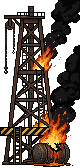
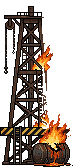
Smoke plumes: a layer drawn in code, replacing the derrick's cut-off smoke
The burning derrick's generated smoke ran off its sprite (a hard edge on the
right and top) and never moved, since only the flames in a set piece
animate. It's cut out of the frames, and a new `smoke` layer rises behind
the derrick instead: puffs born at random moments, each with its own size
and drift, lit from above and by the fire below, breaking up as they rise.
It's placed like a sprite (box, x, y, pinned, size) and can be added,
moved and resized in the scene editor.

The derrick sprite lost 6 px of smoke at its top, so its layer moves down
6 px to stay where it was.

Claude-Session: https://claude.ai/code/session_01TU95K1hi6BMFRUL7GHrbSG

diff --git a/src/render/scenes/smoke.ts b/src/render/scenes/smoke.ts
@@ -1,0 +1,73 @@
+/**
+ * A smoke plume: dark puffs rising from a fire, growing, drifting with the
+ * wind and thinning out as they go, drawn fresh every frame (so it moves, and
+ * there's no sprite edge to cut it off). A `smoke` layer is placed like a
+ * sprite: its box is SMOKE_W × SMOKE_H times its `size`, and the fire it rises
+ * from is near the bottom left of the box (the wind blows it to the right).
+ */
+import { makeCanvas } from '../pixel/painter';
+import { bayer, hash } from '../pixel/noise';
+import { mix } from '../pixel/palette';
+import type { RGB } from '../pixel/palette';
+
+export const SMOKE_W = 48;
+export const SMOKE_H = 110;
+
+/** Puffs in the air at once, and how long one takes to rise the whole way (seconds). */
+const PUFFS = 22;
+const RISE = 7;
+/** Smoke colours: the dark body of a puff, its top lit by the sky, its outline, and the underside lit by the fire. */
+const SOOT: RGB = [26, 21, 22];
+const LIT: RGB = [64, 54, 52];
+const EDGE: RGB = [12, 9, 10];
+const FIRELIT: RGB = [110, 52, 26];
+
+const canvases = new Map<string, { can: HTMLCanvasElement; data: ImageData }>();
+
+/** The plume in a box w × h at time t; it fades toward the haze colour as it rises. */
+export function paintSmoke(w: number, h: number, t: number, haze: RGB): HTMLCanvasElement {
+  const key = `${w}x${h}`;
+  let c = canvases.get(key);
+  if (!c) {
+    c = { can: makeCanvas(w, h), data: new ImageData(w, h) };
+    canvases.set(key, c);
+  }
+  const { data } = c;
+  data.data.fill(0);
+  const scale = h / SMOKE_H;
+  const sx = w * 0.3, sy = h - 4 * scale;
+  // Oldest (highest) puffs first, so the younger ones below are drawn over them.
+  // Each puff is born at a slightly random moment and has its own size and sideways drift (new every time it's reborn).
+  const puffs = Array.from({ length: PUFFS }, (_, k) => {
+    const age = t / RISE + (k + hash(k, 7) * 0.8) / PUFFS, n = Math.floor(age);
+    return { k: k * 31 + n, u: age - n };
+  }).sort((p, q) => q.u - p.u);
+  for (const { k, u } of puffs) {
+    const size = 0.7 + hash(k, 1) * 0.6, side = (hash(k, 2) - 0.5) * 2;
+    // Rises, leans with the wind (faster up high), and wanders to its own side.
+    const px = sx + u * u * 0.55 * w + side * (2 + u * 9) * scale;
+    const py = sy - u * (h - 14 * scale) * (0.92 + hash(k, 3) * 0.16);
+    const r = (4 + u * 10) * size * scale;
+    // Whole puffs low down; up high they break up (dithered) and fade toward the haze.
+    const density = Math.min(1, (1 - u) * 2.5);
+    const tint = (c: RGB) => mix(c, haze, u * 0.25);
+    const x0 = Math.max(0, Math.floor(px - r - 1)), x1 = Math.min(w - 1, Math.ceil(px + r + 1));
+    const y0 = Math.max(0, Math.floor(py - r - 1)), y1 = Math.min(h - 1, Math.ceil(py + r + 1));
+    for (let y = y0; y <= y1; y++) {
+      for (let x = x0; x <= x1; x++) {
+        const dx = (x - px) / r, dy = (y - py) / (r * 0.85), d = Math.hypot(dx, dy);
+        if (d > 1.08) continue;
+        if (density < 1 && density * (1.4 - d) < bayer(x, y)) continue;
+        // Lit from above left, an outline at the rim, warm underneath while near the fire.
+        const top = -(dx * 0.45 + dy * 0.9);
+        let col = d > 0.92 && dy < 0.2 ? EDGE : top > 0.45 ? LIT : SOOT;
+        if (dy > 0.4 && u < 0.35) col = mix(col, FIRELIT, (0.35 - u) * 2.2);
+        const c2 = tint(col);
+        const o = (y * w + x) * 4;
+        data.data[o] = c2[0]; data.data[o + 1] = c2[1]; data.data[o + 2] = c2[2]; data.data[o + 3] = 255;
+      }
+    }
+  }
+  c.can.getContext('2d')!.putImageData(data, 0, 0);
+  return c.can;
+}

diff --git a/src/editor/model.ts b/src/editor/model.ts
@@ -3,6 +3,7 @@
  * the size check for generated sprites, and undo history. No DOM here.
  */
 import { layerBox, spotSize } from '../render/scenes/backdrop';
+import { SMOKE_H, SMOKE_W } from '../render/scenes/smoke';
 import type { Location, SceneLayer } from '../render/scenes/locations';
 import { FEET, MIN_W, PLANES, shiftX, sizeFit } from '../render/scenes/scale';
 import type { Plane } from '../render/scenes/scale';
@@ -22,6 +23,7 @@ function hits(loc: Location, l: SceneLayer, W: number, x: number, y: number): bo
   if (!b || x < b.x || y < b.y || x >= b.x + b.w || y >= b.y + b.h) return false;
   if (l.part === 'body') return Math.hypot(x - b.x - b.w / 2, y - b.y - b.h / 2) <= b.w / 2;
   if (l.part === 'prop') return x >= b.x + 6 && x < b.x + b.w - 6 && y >= b.y + 6;
+  if (l.part === 'smoke') return true;
   if (l.part !== 'sprite') return false;
   const f = framesOf(l.sheet)?.[0];
   if (!f) return true;
@@ -49,8 +51,9 @@ export function moveTo(loc: Location, l: SceneLayer, W: number, x: number, y: nu
   l.y = Math.round(y);
 }
 
-/** Sprites and props are set pieces: they can be added, duplicated and deleted (the rest belongs to the location's look). */
-export const isPiece = (l: SceneLayer | undefined): l is Extract<SceneLayer, { part: 'sprite' | 'prop' }> => l?.part === 'sprite' || l?.part === 'prop';
+/** Sprites, props and smoke are set pieces: they can be added, duplicated and deleted (the rest belongs to the location's look). */
+export const isPiece = (l: SceneLayer | undefined): l is Extract<SceneLayer, { part: 'sprite' | 'prop' | 'smoke' }> =>
+  l?.part === 'sprite' || l?.part === 'prop' || l?.part === 'smoke';
 
 /** Swaps layer i with its neighbour toward the front (1) or the back (-1); returns its new index. */
 export function reorder(layers: SceneLayer[], i: number, dir: 1 | -1): number {
@@ -65,6 +68,9 @@ export function newSprite(sheet: SheetId): SceneLayer {
   const { w, h } = SHEETS[sheet];
   return { part: 'sprite', sheet, x: Math.round(MIN_W / 2 - w / 2), y: FEET - h };
 }
+
+/** A new smoke plume, in the middle of the scene, rising from the fighters' line. */
+export const newSmoke = (): SceneLayer => ({ part: 'smoke', x: Math.round(MIN_W / 2 - SMOKE_W / 2), y: FEET - SMOKE_H });
 
 /** How a sprite's size compares with what its label (metres, plane) asks for; null if it has no label. */
 export function sizeCheck(sheet: SheetId): { metres: number; plane: Plane; scale: number; px: number; expected: number; ok: boolean } | null {

diff --git a/src/render/scenes/backdrop.ts b/src/render/scenes/backdrop.ts
@@ -21,6 +21,7 @@ import type { Layout, Location, SceneLayer } from './locations';
 import { FEET, HORIZON, SCENE_H, shiftX } from './scale';
 import { paintEclipse, paintMoon, paintSky } from './sky';
 import { paintHaze, paintRank } from './skyline';
+import { SMOKE_H, SMOKE_W, paintSmoke } from './smoke';
 import { FRAME_WIDTH, paintFrame, paintProp } from './structures';
 
 export interface Backdrop {
@@ -40,6 +41,7 @@ const PROP_W = 40, PROP_H = 50;
 export function spotSize(loc: Location, l: SceneLayer): { w: number; h: number } | null {
   if (l.part === 'sprite') return { w: SHEETS[l.sheet].w, h: SHEETS[l.sheet].h };
   if (l.part === 'prop') return { w: PROP_W, h: PROP_H };
+  if (l.part === 'smoke') return { w: Math.round(SMOKE_W * (l.size ?? 1)), h: Math.round(SMOKE_H * (l.size ?? 1)) };
   if (l.part === 'body' && loc.body) return { w: loc.body.r * 2, h: loc.body.r * 2 };
   return null;
 }
@@ -56,6 +58,7 @@ export function layerName(loc: Location, l: SceneLayer): string {
   switch (l.part) {
     case 'sprite': return l.sheet;
     case 'prop': return `prop: ${l.style}`;
+    case 'smoke': return 'smoke';
     case 'body': return loc.body?.kind ?? 'body';
     case 'skyline': return `skyline ${l.rank + 1}: ${loc.skyline[l.rank]?.style ?? '?'}`;
     case 'frame': return `frame ${l.side}: ${loc.frames[l.side === 'left' ? 0 : 1]}`;
@@ -110,6 +113,12 @@ export function buildBackdrop(key: string, W: number, H: number, opts: BackdropO
         if (l.part === 'sky-fx') { glow.globalAlpha = 1; ambient.drawSky(ctx, glow, t, dt); continue; }
         if (l.part === 'weather') { glow.globalAlpha = 1; ambient.drawFront(ctx, glow, t, dt); continue; }
         if (l.part === 'sprite') { drawSprite(ctx, glow, l, W, t, haze); continue; }
+        if (l.part === 'smoke') {
+          const box = layerBox(loc, l, W)!, img = paintSmoke(box.w, box.h, t, haze);
+          ctx.drawImage(img, box.x, box.y);
+          occlude(glow, img, box.x, box.y);
+          continue;
+        }
         const c = paint(l);
         if (!c) continue;
         ctx.drawImage(c.img, 0, 0);

diff --git a/src/editor/panel.ts b/src/editor/panel.ts
@@ -48,6 +48,7 @@ function inspector(s: PanelState): string {
       ? `<p class="size ${c.ok ? 'ok' : 'bad'}">Made for <b>${c.plane}</b> (×${c.scale}): ${c.metres} m → ${c.expected} px expected, sprite is ${c.px} px ${c.ok ? '✓' : '✗'}<br><small>The ${c.plane} line is shown in the scene.</small></p>`
       : '<p class="size">No size label (src/render/sprites/sizes.ts).</p>');
   }
+  if (l.part === 'smoke') rows.push(`<div class="pair">${num('size', 'size (×)', l.size ?? 1, 0.1)}</div><p class="hint">The fire it rises from is near the bottom left of its box.</p>`);
   const buttons = !isPiece(l) ? '' : '<div class="row"><button data-act="dup">Duplicate</button><button data-act="del" class="danger">Delete</button></div>';
   return name + rows.join('') + buttons;
 }
@@ -73,7 +74,7 @@ export function renderPanel(s: PanelState): string {
       <p class="status">${esc(s.status)}</p>
     </header>
     <section><h3>Layers <small>front ↑ · back ↓</small></h3><ul class="list">${rows}</ul>
-      <div class="row"><select data-act="sheet">${sheets}</select><button data-act="add">Add sprite</button></div></section>
+      <div class="row"><select data-act="sheet">${sheets}</select><button data-act="add">Add sprite</button><button data-act="add-smoke">Add smoke</button></div></section>
     <section class="inspector">${inspector(s)}</section>
     <details open><summary>View</summary>${check('bloom', s.bloom, 'Glow (bloom)')}${check('guides', s.guides, 'Guides: horizon, fighters’ line, 320 px frame, outlines')}
       <div class="row">Scene width: ${widths}</div></details>

diff --git a/src/editor/main.ts b/src/editor/main.ts
@@ -16,7 +16,7 @@ import type { Location, SceneLayer } from '../render/scenes/locations';
 import { loadSheets } from '../render/sprites/sheets';
 import { SHEETS } from '../render/sprites/sheet-data';
 import type { SheetId } from '../render/sprites/sheet-data';
-import { History, clone, isPiece, isPlaced, moveTo, newSprite, pick, reorder, sizeCheck } from './model';
+import { History, clone, isPiece, isPlaced, moveTo, newSmoke, newSprite, pick, reorder, sizeCheck } from './model';
 import { renderPanel } from './panel';
 
 const canvas = document.querySelector<HTMLCanvasElement>('#scene')!;
@@ -176,11 +176,11 @@ panel.addEventListener('click', (e) => {
     case 'select': sel = i; break;
     case 'eye': if (l && !hidden.delete(l)) hidden.add(l); break;
     case 'up': case 'down': if (i !== null) { change(); sel = reorder(layers, i, act === 'up' ? 1 : -1); } break;
-    case 'add': {
+    case 'add': case 'add-smoke': {
       // Just behind the fighters.
       change();
       const at = Math.max(0, layers.findIndex((x) => x.part === 'fighters'));
-      layers.splice(at, 0, newSprite(sheet));
+      layers.splice(at, 0, act === 'add' ? newSprite(sheet) : newSmoke());
       sel = at;
       break;
     }

diff --git a/tests/sprites.test.ts b/tests/sprites.test.ts
@@ -71,7 +71,8 @@ describe('sprite sheets', () => {
         if (l.part === 'sprite') assert.ok(l.sheet in SHEETS, `${id}: unknown sheet ${l.sheet}`);
         if (l.part === 'skyline') assert.ok(loc.skyline[l.rank], `${id}: no skyline rank ${l.rank}`);
         if (l.part === 'body') assert.ok(loc.body, `${id}: a body layer but no body in the look`);
-        assert.ok(['sky', 'sky-fx', 'nave', 'haze', 'ground', 'weather', 'vignette', 'fighters', 'skyline', 'frame', 'body', 'prop', 'sprite'].includes(l.part), `${id}: unknown part ${l.part}`);
+        if (l.part === 'smoke') assert.ok(l.size === undefined || (l.size > 0 && l.size <= 4), `${id}: smoke size ${l.size}`);
+        assert.ok(['sky', 'sky-fx', 'nave', 'haze', 'ground', 'weather', 'vignette', 'fighters', 'skyline', 'frame', 'body', 'prop', 'sprite', 'smoke'].includes(l.part), `${id}: unknown part ${l.part}`);
       }
     }
   });

diff --git a/src/render/sprites/sheet-data.ts b/src/render/sprites/sheet-data.ts
@@ -18,7 +18,7 @@ export const SHEETS = {
   plasma_sprite: { file: 'sprites/plasma_sprite.png', frames: 11, w: 66, h: 60, ax: 35 },
   magma_colossus: { file: 'sprites/magma_colossus.png', frames: 11, w: 108, h: 108, ax: 51 },
   kethra_headframe: { file: 'sprites/kethra_headframe.png', frames: 4, w: 130, h: 96, ax: 59 },
-  kethra_rig: { file: 'sprites/kethra_rig.png', frames: 4, w: 84, h: 169, ax: 40 },
+  kethra_rig: { file: 'sprites/kethra_rig.png', frames: 4, w: 77, h: 163, ax: 40 },
   kethra_hab: { file: 'sprites/kethra_hab.png', frames: 4, w: 77, h: 170, ax: 44 },
   kethra_crates: { file: 'sprites/kethra_crates.png', frames: 4, w: 37, h: 41, ax: 18 },
   kethra_cart: { file: 'sprites/kethra_cart.png', frames: 4, w: 54, h: 39, ax: 27 },

diff --git a/src/render/scenes/locations.ts b/src/render/scenes/locations.ts
@@ -36,7 +36,9 @@ export type SceneLayer =
   /** A small painted prop (brazier, candles...). */
   | ({ part: 'prop'; style: PropStyle } & Spot)
   /** A generated sprite: looping its frames at `fps` (default 6), mirrored with `flip`, tinted toward the location's haze by `fog` (0–1). */
-  | ({ part: 'sprite'; sheet: SheetId; flip?: boolean; fps?: number; fog?: number } & Spot);
+  | ({ part: 'sprite'; sheet: SheetId; flip?: boolean; fps?: number; fog?: number } & Spot)
+  /** A smoke plume rising from a fire near its bottom left (scenes/smoke.ts), `size` times the default (1). */
+  | ({ part: 'smoke'; size?: number } & Spot);
 
 export interface Layout { layers: SceneLayer[] }
 

diff --git a/README.md b/README.md
@@ -144,7 +144,7 @@ Sheets made with [PixelLab](https://pixellab.ai) live in `art/pixellab/<name>/` 
 
 The Veridia Fen hostiles (`fen_leech`, `rotwired_penitent`, `choir_cantor`, `archcantor`) were made the same way: *create image (pro)* with the officer as the style image (side view, flipped to face left where needed) → `base.png`, then two *animate image* runs on it (`idle-*` with the last frame pinned to the first so it loops, and `attack-*`). `sprites.py` matches every frame's colours to `base.png` (brightness, then its palette), so a frame the model lit up overall doesn't flash; where a pixel is the same part of the figure as in `base.png` (PixelLab keeps the canvas), it takes the base's colour exactly, so a still body doesn't shimmer. Lights that come on (a patch that brightened far more than the frame and burns white, like the Cantor's lantern pulsing in its idle) keep their light (`against_base`). What glows is left alone: pixels in the sheet's glow hues that are bright (or unlike any base colour), plus the near-white cores joined to them, keep their colour and go into the glow mask (`lit_by_effect`), so a staff flaring or a spell keeps its light. Every attack frame is used (`attack-0` is the input frame, so it's skipped). Kethra's hostiles (`lava_worm`, `plasma_sprite`, `slag_automaton`, `magma_colossus`) were made the same way, with fire glow hues (`FIRE`; the robot's `EMBER` leaves out the yellows so its hazard stripes don't glow). The robot's slam lights its whole body orange; for sheets in `LIT_BODY` a frame lit that much only keeps the light outside the base sprite's outline (the burst at the drill), and its body is colour-matched. Its drill ran off the original canvas, so `base.png` was widened and the whole drill repainted with *inpaint image* before animating (repainting only the missing tip left a seam).
 
-**Layers** (`layouts.json`, drawn by `src/render/scenes/backdrop.ts`): each location is a list of layers, drawn back to front, and that order is all there is to what covers what. A layer is a painted part of the location's look (`sky`, the `body` in the sky, `sky-fx` such as lightning, each `skyline` rank, `haze`, the ship's `nave`, `ground`, a painted `frame` or `prop`, `weather` and fog, the `vignette`), a generated `sprite`, or `fighters`, where the figures are drawn. Placed layers (sprites, props, the body) have `x, y`: their top-left corner in the 320 × 180 scene every screen shows. On a wider screen they keep their place around the centre like the fighters, or, with `pinned`, next to their nearest edge (the framing tree and house, or barrels tucked behind the tree). A sprite loops its frames at `fps`, can be mirrored (`flip`), and `fog` (0–1) tints it toward the location's haze so distant things recede. So the chapel-forge sits between two tree lines and behind the haze just by where it is in the list. Veridia's tree, house, chapel-forge, reliquary, leaking barrels (only the acid moves: `STILL` in `sprites.py`) and lantern are generated; its sky, tree lines, fog, spores, lightning and floor are painted. Kethra's burning pieces (the mine headframe on the horizon, the derrick and the hab framing the stage, crates and an ore cart) are generated too, each a 4-frame *animate image* loop (last frame pinned to the base) where only the flames move (`STILL`); its sky, skylines and lava-seamed floor are painted. `npm run scene` screenshots each location without figures or UI (`test-results/scene-<mission>.png`).
+**Layers** (`layouts.json`, drawn by `src/render/scenes/backdrop.ts`): each location is a list of layers, drawn back to front, and that order is all there is to what covers what. A layer is a painted part of the location's look (`sky`, the `body` in the sky, `sky-fx` such as lightning, each `skyline` rank, `haze`, the ship's `nave`, `ground`, a painted `frame` or `prop`, `weather` and fog, the `vignette`), a generated `sprite`, a `smoke` plume (drawn every frame, so it rises and drifts and is never cut off at a sprite's edge; its fire is near the bottom left of its box, `size` scales it; `src/render/scenes/smoke.ts`), or `fighters`, where the figures are drawn. Placed layers (sprites, props, the body) have `x, y`: their top-left corner in the 320 × 180 scene every screen shows. On a wider screen they keep their place around the centre like the fighters, or, with `pinned`, next to their nearest edge (the framing tree and house, or barrels tucked behind the tree). A sprite loops its frames at `fps`, can be mirrored (`flip`), and `fog` (0–1) tints it toward the location's haze so distant things recede. So the chapel-forge sits between two tree lines and behind the haze just by where it is in the list. Veridia's tree, house, chapel-forge, reliquary, leaking barrels (only the acid moves: `STILL` in `sprites.py`) and lantern are generated; its sky, tree lines, fog, spores, lightning and floor are painted. Kethra's burning pieces (the mine headframe on the horizon, the derrick and the hab framing the stage, crates and an ore cart) are generated too, each a 4-frame *animate image* loop (last frame pinned to the base) where only the flames move (`STILL`); its sky, skylines and lava-seamed floor are painted. The derrick's generated smoke was cut out of its frames (it was cut off at the sprite's edge and couldn't move); a `smoke` layer behind it replaces it. `npm run scene` screenshots each location without figures or UI (`test-results/scene-<mission>.png`).
 
 **Scale** (`src/render/scenes/scale.ts`): one scale for all generated art, used to check it, not to place it. The officer is 1.8 m and 82 px on the fighters' line (45.6 px per metre). Art is made for a plane, which scales it: `foreground` 1.25×, `fighters` 1×, `behind` 0.8×, `background` 0.5×, `distant` 0.25×, `horizon` 0.08×. Each set piece's real height and plane are in `src/render/sprites/sizes.ts` (hostiles: `look.height`, on the fighters' line), and `tests/sprites.test.ts` checks every sprite is within 15% of `metres × 45.6 × plane` pixels, so a new monster or barrel can't come out twice the size it should be. When generating, aim for that size: a 0.9 m barrel for `behind` is 33 px; a person on the fighters' line is 82 px. The editor shows each sprite's plane, its size check, and the line where that plane's feet would be, as a guide.
 
